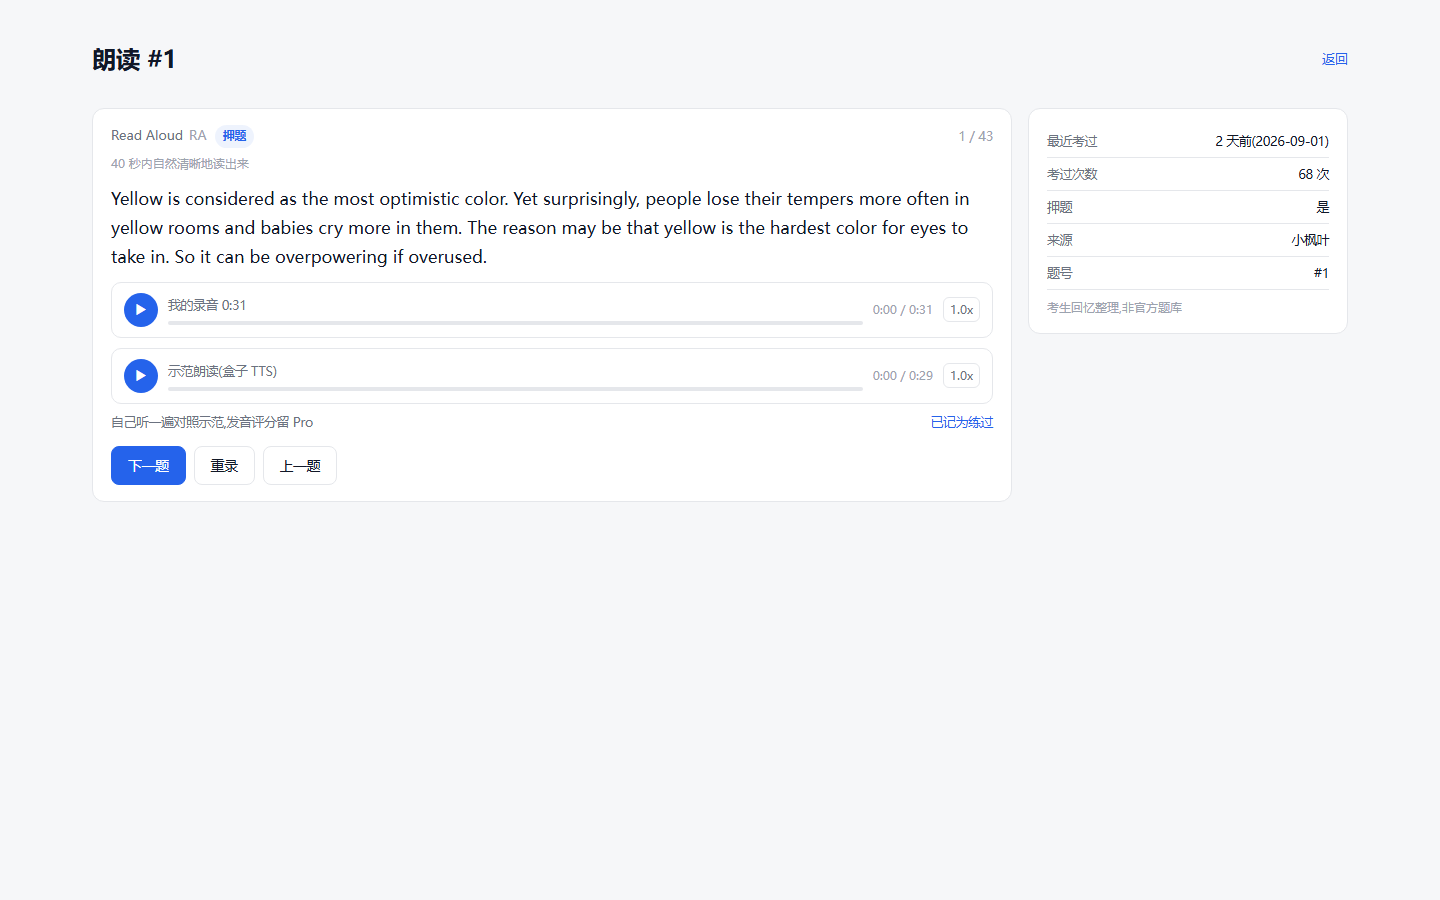
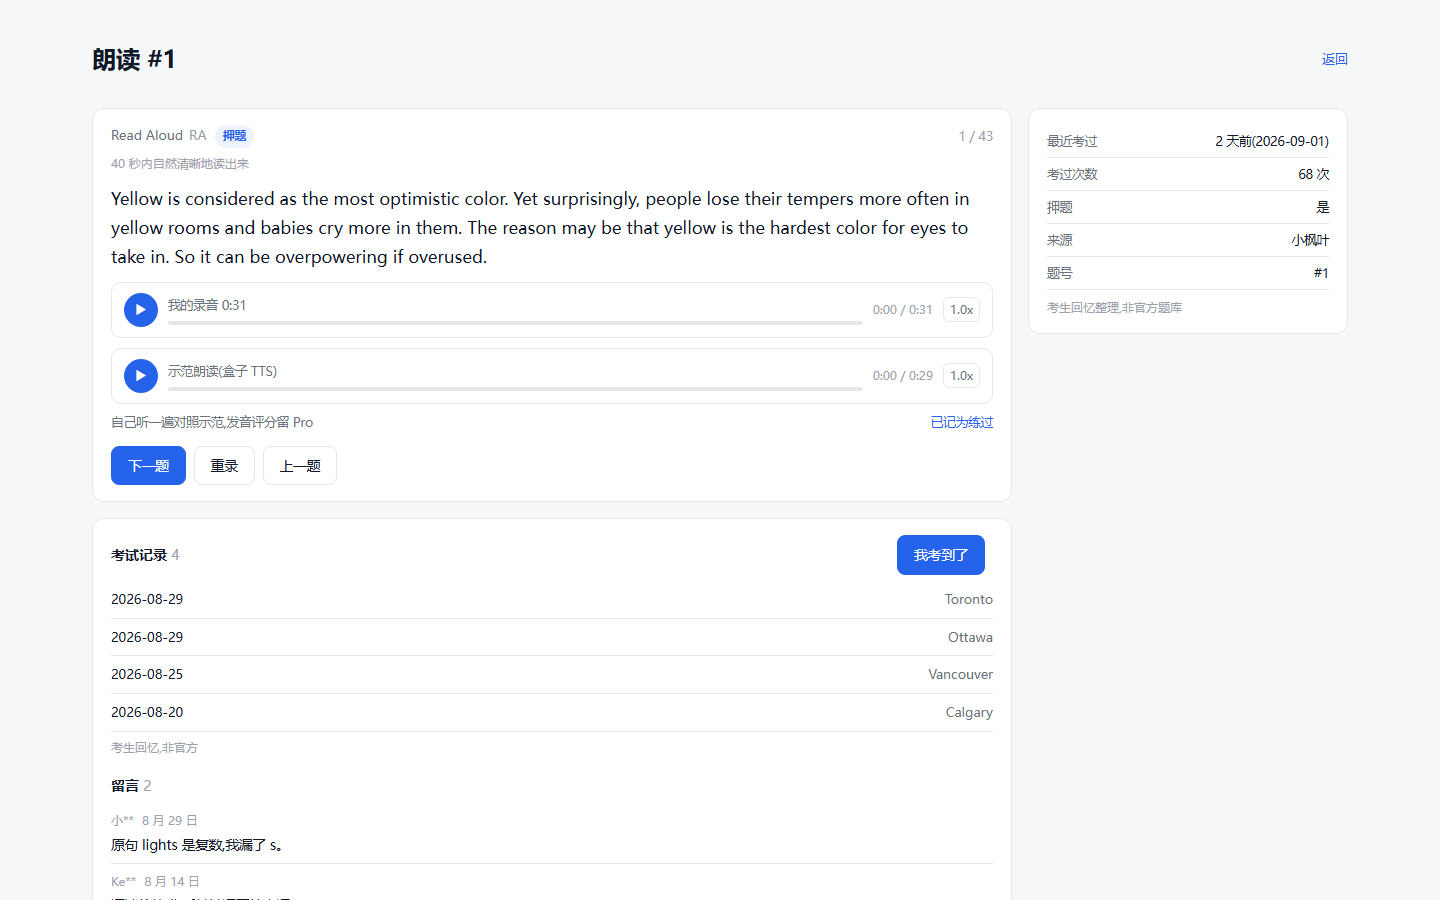
docs(pte): 题下评论区定形(考试记录免审钮 + 留言过审,三家收敛)+ 多墨评论/BEST 参照三张 + 效果图带评论 [skip render]

diff --git a/docs/design/PTE刷题-20260903.md b/docs/design/PTE刷题-20260903.md
@@ -93,6 +93,22 @@
 
 **参照图**(crawl 缓存离线渲染 + 登录态实拍,`img/参照-*`):小枫叶 WFD 手机 / RA 桌面,猩际 WFD 手机 / RA 桌面,多墨 ASQ 桌面(缓存是桌面视口拍的渲染态,手机版收不窄;图标字体没缓存显方块)。多墨走的是另一路:题头一行 `ASQ 15/151 · Hot · #10216 · Level 1 · Not practiced 2025-11`,ITEM TRANSCRIPT 与 EXAMPLE ANSWER **默认展开**、点「CLICK TO HIDE」才收,音频 8 个随机人声,START 一颗钮录音 —— 是「看着答案练」的复习流,不是考试流;我们照小枫叶/猩际的折叠(先练后看),但把多墨那行「上次练 2025-11」抄进练过格(批三进度)。小枫叶的免费账号一进单题就弹升级会员框(锁在门口,不是用过再锁)—— 反例,我们的锁位照当日拍板「用过再锁」。缓存渲染法:渲染态 outerHTML + 缓存 main.css,`page.set_content` + 拦掉一切外网请求,弹框节点摘掉再截 —— 与实拍只差 logo 图,以后看竞品不用登录。
 
+### 题下评论区(2026-09-03 Frank「加评论有什么问题吗」→ 批二就带)
+
+三家评论区都看过了(参照图 `img/参照-小枫叶*` 评论在页底、`img/参照-多墨评论-*`、猩际在「练习讨论」页签):
+- **小枫叶**:一条评论一个「[考试记录] 日期:2026-08-29 Toronto」结构行,自由文字是附带;评论就是「最近考了」的原料。
+- **猩际**:「确认考过」做成钮(考过 (413)),讨论区另开页签,里面多是老师长文。
+- **多墨**(6 年老站,一道 RA 攒 95 条):每条评论带**分类标签**(Chitchat / Cheer up / Memories / Experiences),按赞 / 按时间排,点赞,一层回复,可匿名,发框在底部带分类下拉;另有 BEST 页签 = 别人的录音 + AI 三项分(Content / Pronunciation / Fluency)—— 评分产物,我们不做。
+
+**小李在题下看到什么(从三家收敛)**:
+1. 「考试记录」一栏:一行一条 `2026-08-29 Toronto`,按日期倒序;头上一颗钮「我考到了」(日期默认今天、城市选填,登录即发,**免审**),发了立刻进这栏,并合并进右侧事实卡的「考过次数 / 最近考过」(自家池子 + 三源抓取并排,来源灰字)。
+2. 「留言」一栏:自由文字,复用新闻评论那套(登录可评 → pending → 后台过审公开、昵称脱敏、一层回复、单人待审 10 条上限);按时间倒序;空态一句「还没人留言」。
+3. 不做:点赞、按赞排、分类标签(多墨的四类里三类是闲聊,我们把唯一有数据价值的 Memories 做成了结构化的「考试记录」,剩下的就是留言)、匿名、BEST 录音榜。
+
+**为什么免审只给「考试记录」**:结构化两格没有广告位,不用人看;自由文字才走人工闸(挡中介,新闻评论同款理由)。
+
+**数据**:Comments 集合加 `qid` 字段(与 `newsSlug` 并列,一条评论只挂一处)+ `kind`(`exam` / `note`)+ `examDate` / `examCity` 两格;DDL 三列一索引 `(qid, status, created_at)`。`exam` 类 beforeChange 直接 `status=approved`。
+
 **状态机(展示层,`components/pte`)**:`ready → answering → checked`;RA 从 ready 起,其余三型从 answering 起(音频自动播);`checked` 时写练过(登录用户存服务端,匿名 localStorage,批三定形)。
 
 ### 数据(数据层 `etl/pte` → mart → DB)
